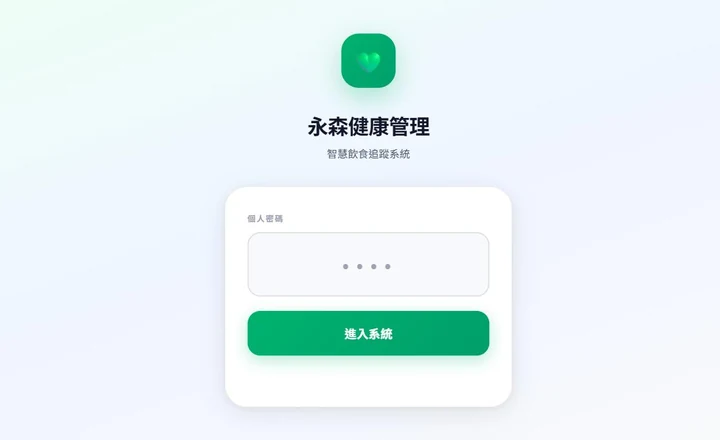
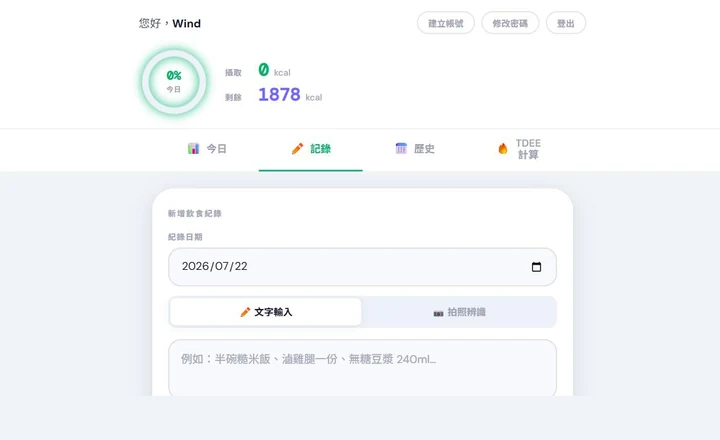
FitLog AI 卡片改用登入後主畫面
原截圖是密碼登入畫面，作為作品預覽說服力不足。改用主畫面，可見
每日熱量環、TDEE 計算分頁、飲食紀錄與拍照辨識入口。

擷取時為當日空白狀態，不含任何實際飲食紀錄；登入後畫面亦不顯示
站台品牌名，故卡片標題維持「FitLog AI」不需調整。

diff --git a/index.html b/index.html
@@ -200,7 +200,7 @@ footer{text-align:center;padding:32px 20px;color:var(--dim);font-size:.78rem;bor
     <!-- 5 FitLog AI -->
     <div class="work-card reveal">
       <div class="preview-box">
-        <img src="assets/fitlog-ai.webp" alt="健康管理系統登入畫面" loading="lazy" width="720" height="440">
+        <img src="assets/fitlog-ai.webp" alt="FitLog AI 主畫面，顯示每日熱量環、TDEE 計算與飲食紀錄輸入" loading="lazy" width="720" height="440">
       </div>
       <div class="work-info">
         <div class="tag-row"><span class="tag amber">App・AI</span><span class="tag green">已上線</span></div>